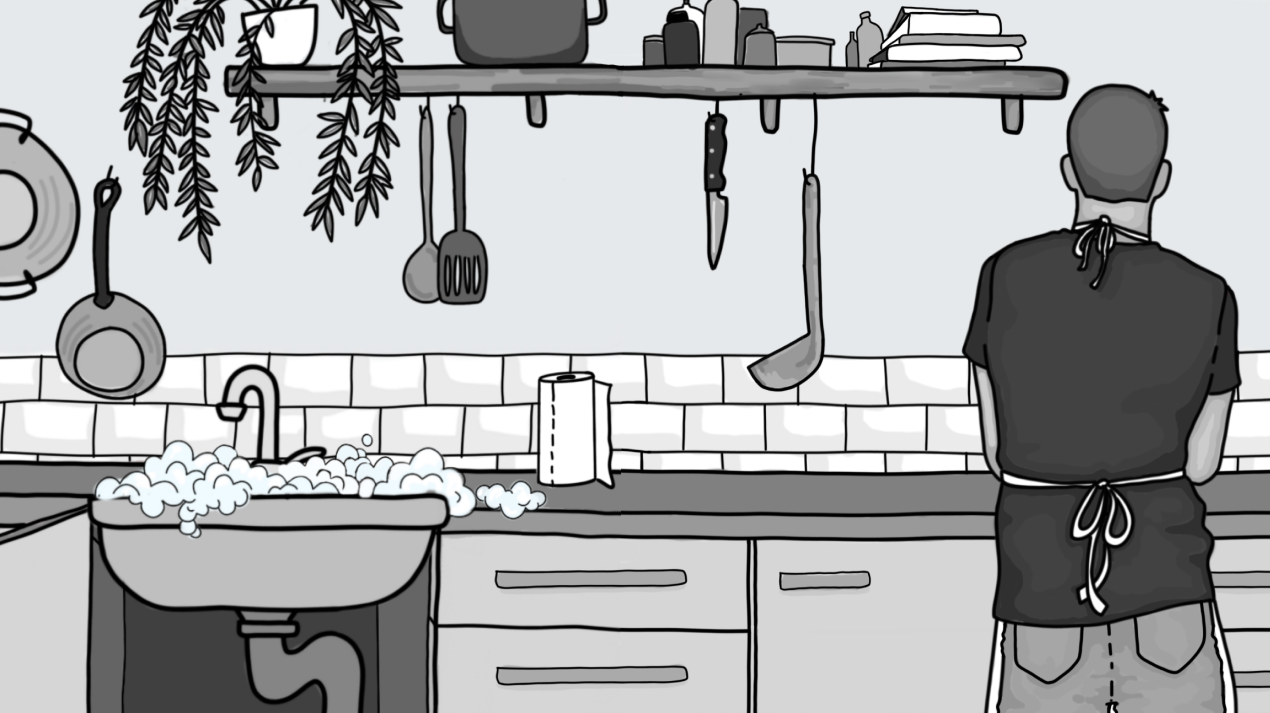
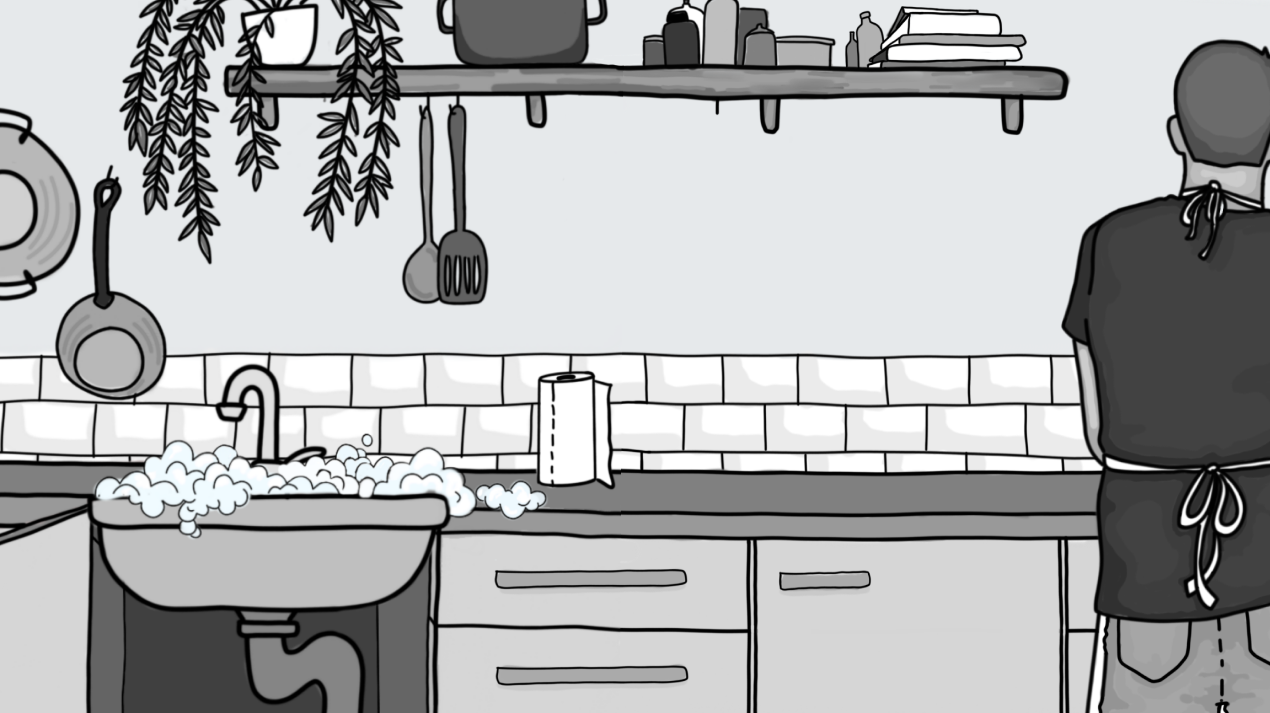
Magnet

Changed region(s): [[0.737, 0.0309, 1.0, 1.0], [0.5835, 0.1543, 0.6756, 0.5554], [0.5528, 0.1543, 0.5835, 0.3703]]

diff --git a/Murmelbahn/code/sketch.js b/Murmelbahn/code/sketch.js
@@ -211,6 +211,7 @@ function scene1() {
 
 function scene2() {
 	sceneBack.style["background"] = 'url("./frame2/background.png") no-repeat';
+	sceneFore.style["background"] = 'url("./frame2/Schornstein.png") no-repeat';
 	let wolken2, wolken3;
 
 	//ei
@@ -319,7 +320,7 @@ function scene2() {
 
 function scene3() {
 	sceneBack.style["background"] = 'url("./Frame3/background.png") no-repeat';
-	sceneFore.style["foreground"] = 'url("./frame2/Schornstein.png") no-repeat';
+	sceneFore.style["background"] = "";
 
 	let kamin1;
 
@@ -954,6 +955,7 @@ function scene7() {
 }
 function scene8() {
 	sceneBack.style["background"] = 'url("./frame8/background.png") no-repeat';
+	sceneFore.style["background"] = 'url("./frame8/Person.png") no-repeat';
 	//Ei Hüpfen & Physik auf normal
 	eiX = 0.04;
 	eiY = -0.04;
@@ -967,7 +969,7 @@ function scene8() {
 			x: 250,
 			y: 400,
 			image: blase,
-			fromFile: "./eggState/pathei.svg",
+			fromFile: "./eggState/pathblase.svg",
 			scale: 1,
 		},
 		{ label: "Murmel", isStatic: false, friction: 0.1, density: 0.001 }
@@ -991,26 +993,38 @@ function scene8() {
 			{ isStatic: true }
 		)
 	);
+	blocks.push(
+		new BlockCore(
+			world,
+			{
+				x: 850,
+				y: 525,
+				w: 800,
+				h: 20,
+			},
+			{ isStatic: true, restitution: 0.5, friction: 0.001 }
+		)
+	);
 	//Magnet
 	magnet = new Magnet(
 		world,
 		{
-			x: 400,
+			x: 600,
 			y: 200,
-			r: 100,
+			r: 20,
 			color: "grey",
-			attraction: 0.5e-4,
+			attraction: 0.2e-4,
+			trigger: () => {
+				//Normaler Ei Status und EI Path
+				ei.attributes.image = statusNormal;
+				//Magnet wird ausgeschgalten
+				magnet.attributes.attraction = 0.0;
+			},
 		},
 		{ isStatic: true }
 	);
-	//magnet.addAttracted(ei);
+	magnet.addAttracted(ei);
 
-	//blocks.push(magnet);
-	//magnet.attract(ei);
-	//magnet.draw();
-	//magnet.draw();
-	//magnet.addAttracted(ei);
-	//Automatischer Szenen wechsler
 	blocks.push(
 		new BlockCore(
 			world,
@@ -1043,8 +1057,8 @@ function draw() {
 	clear();
 	blocks.forEach((block) => block.draw());
 	if (scene == 7) {
-		//magnet.draw();
-		//magnet.attract();
+		magnet.draw();
+		magnet.attract();
 	}
 	//magnet.attract();
 	//magnet.draw();

diff --git a/Murmelbahn/code/index.html b/Murmelbahn/code/index.html
@@ -81,7 +81,6 @@
 				position: absolute;
 				width: 1280px;
 				height: 720px;
-				background: url("./frame2/Schornste.png") no-repeat;
 				z-index: 1;
 				pointer-events: none;
 			}
